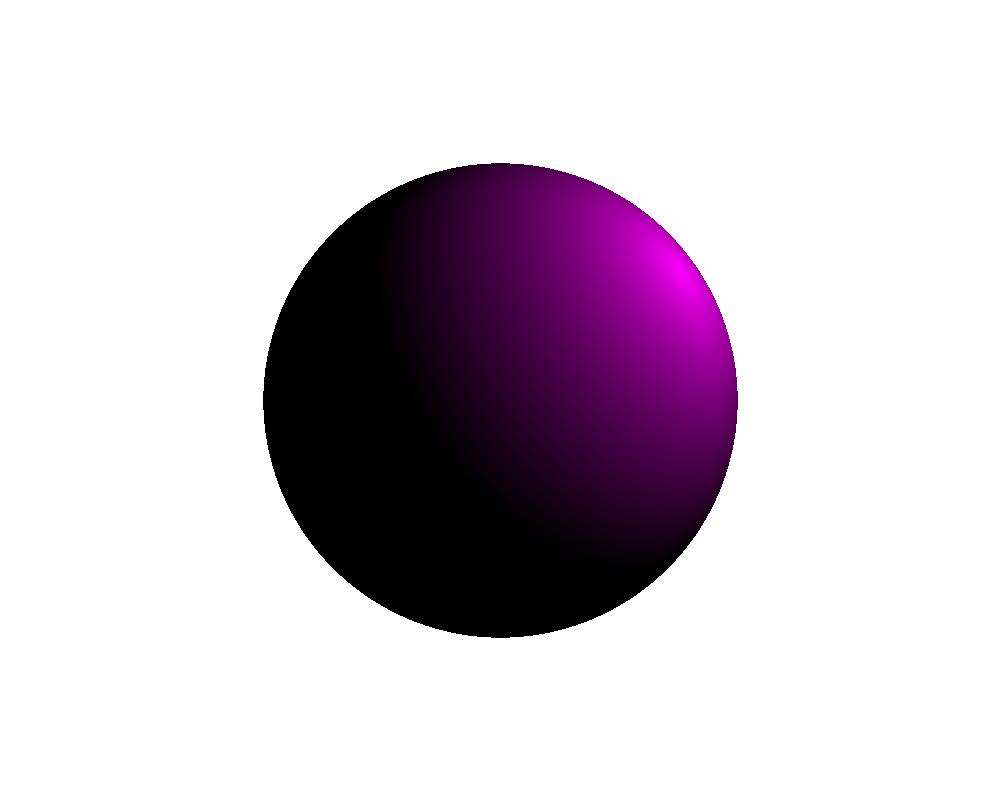
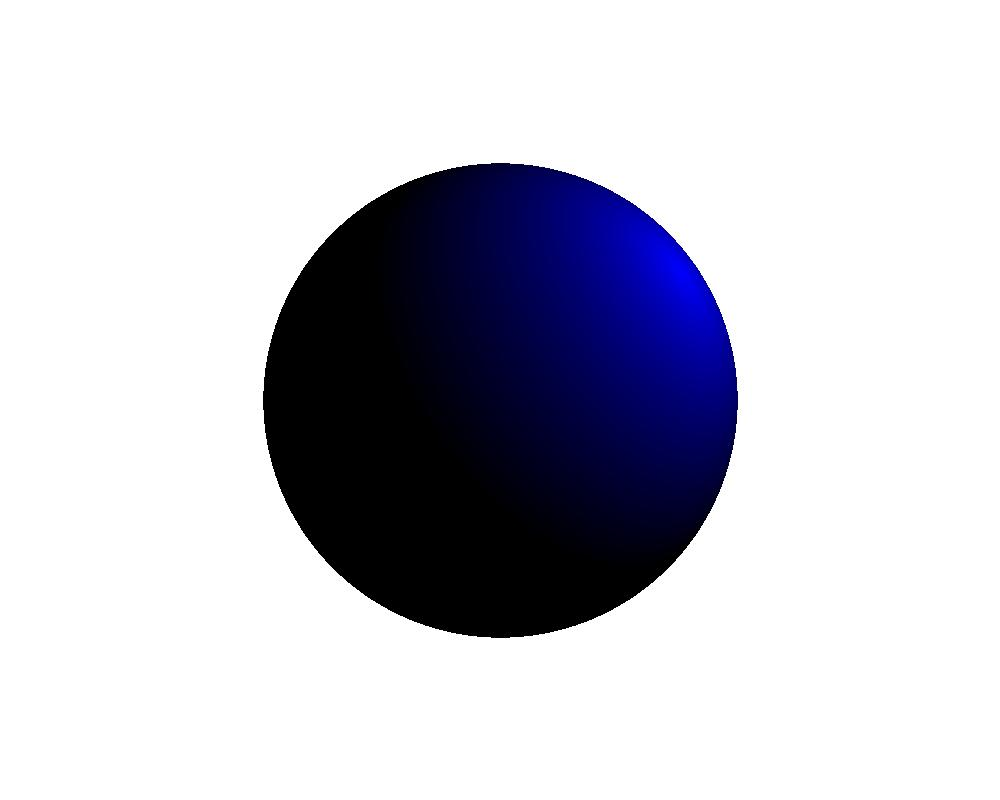
V7

Changed region(s): [[0.403, 0.1875, 0.744, 0.6875]]

diff --git a/src/main.py b/src/main.py
@@ -9,10 +9,9 @@ from numpy import linalg as la
 
 x = 1000
 y = 800
-s1 = Sphere(np.array([700, 0, 0]), 300, np.array([255, 0, 255]))
-#c = TriangleObject(Cube().getTriangles(), np.array([255, 255, 255]))
-#c.scale(200)
-#c.move(np.array([800, 0, 0]))
+s1 = Sphere(np.array([700, 0, 0]), 300, np.array([0, 0, 255]))
+
+#mehr kommentare hier zum testen
 
 shperes = [s1,]
 
